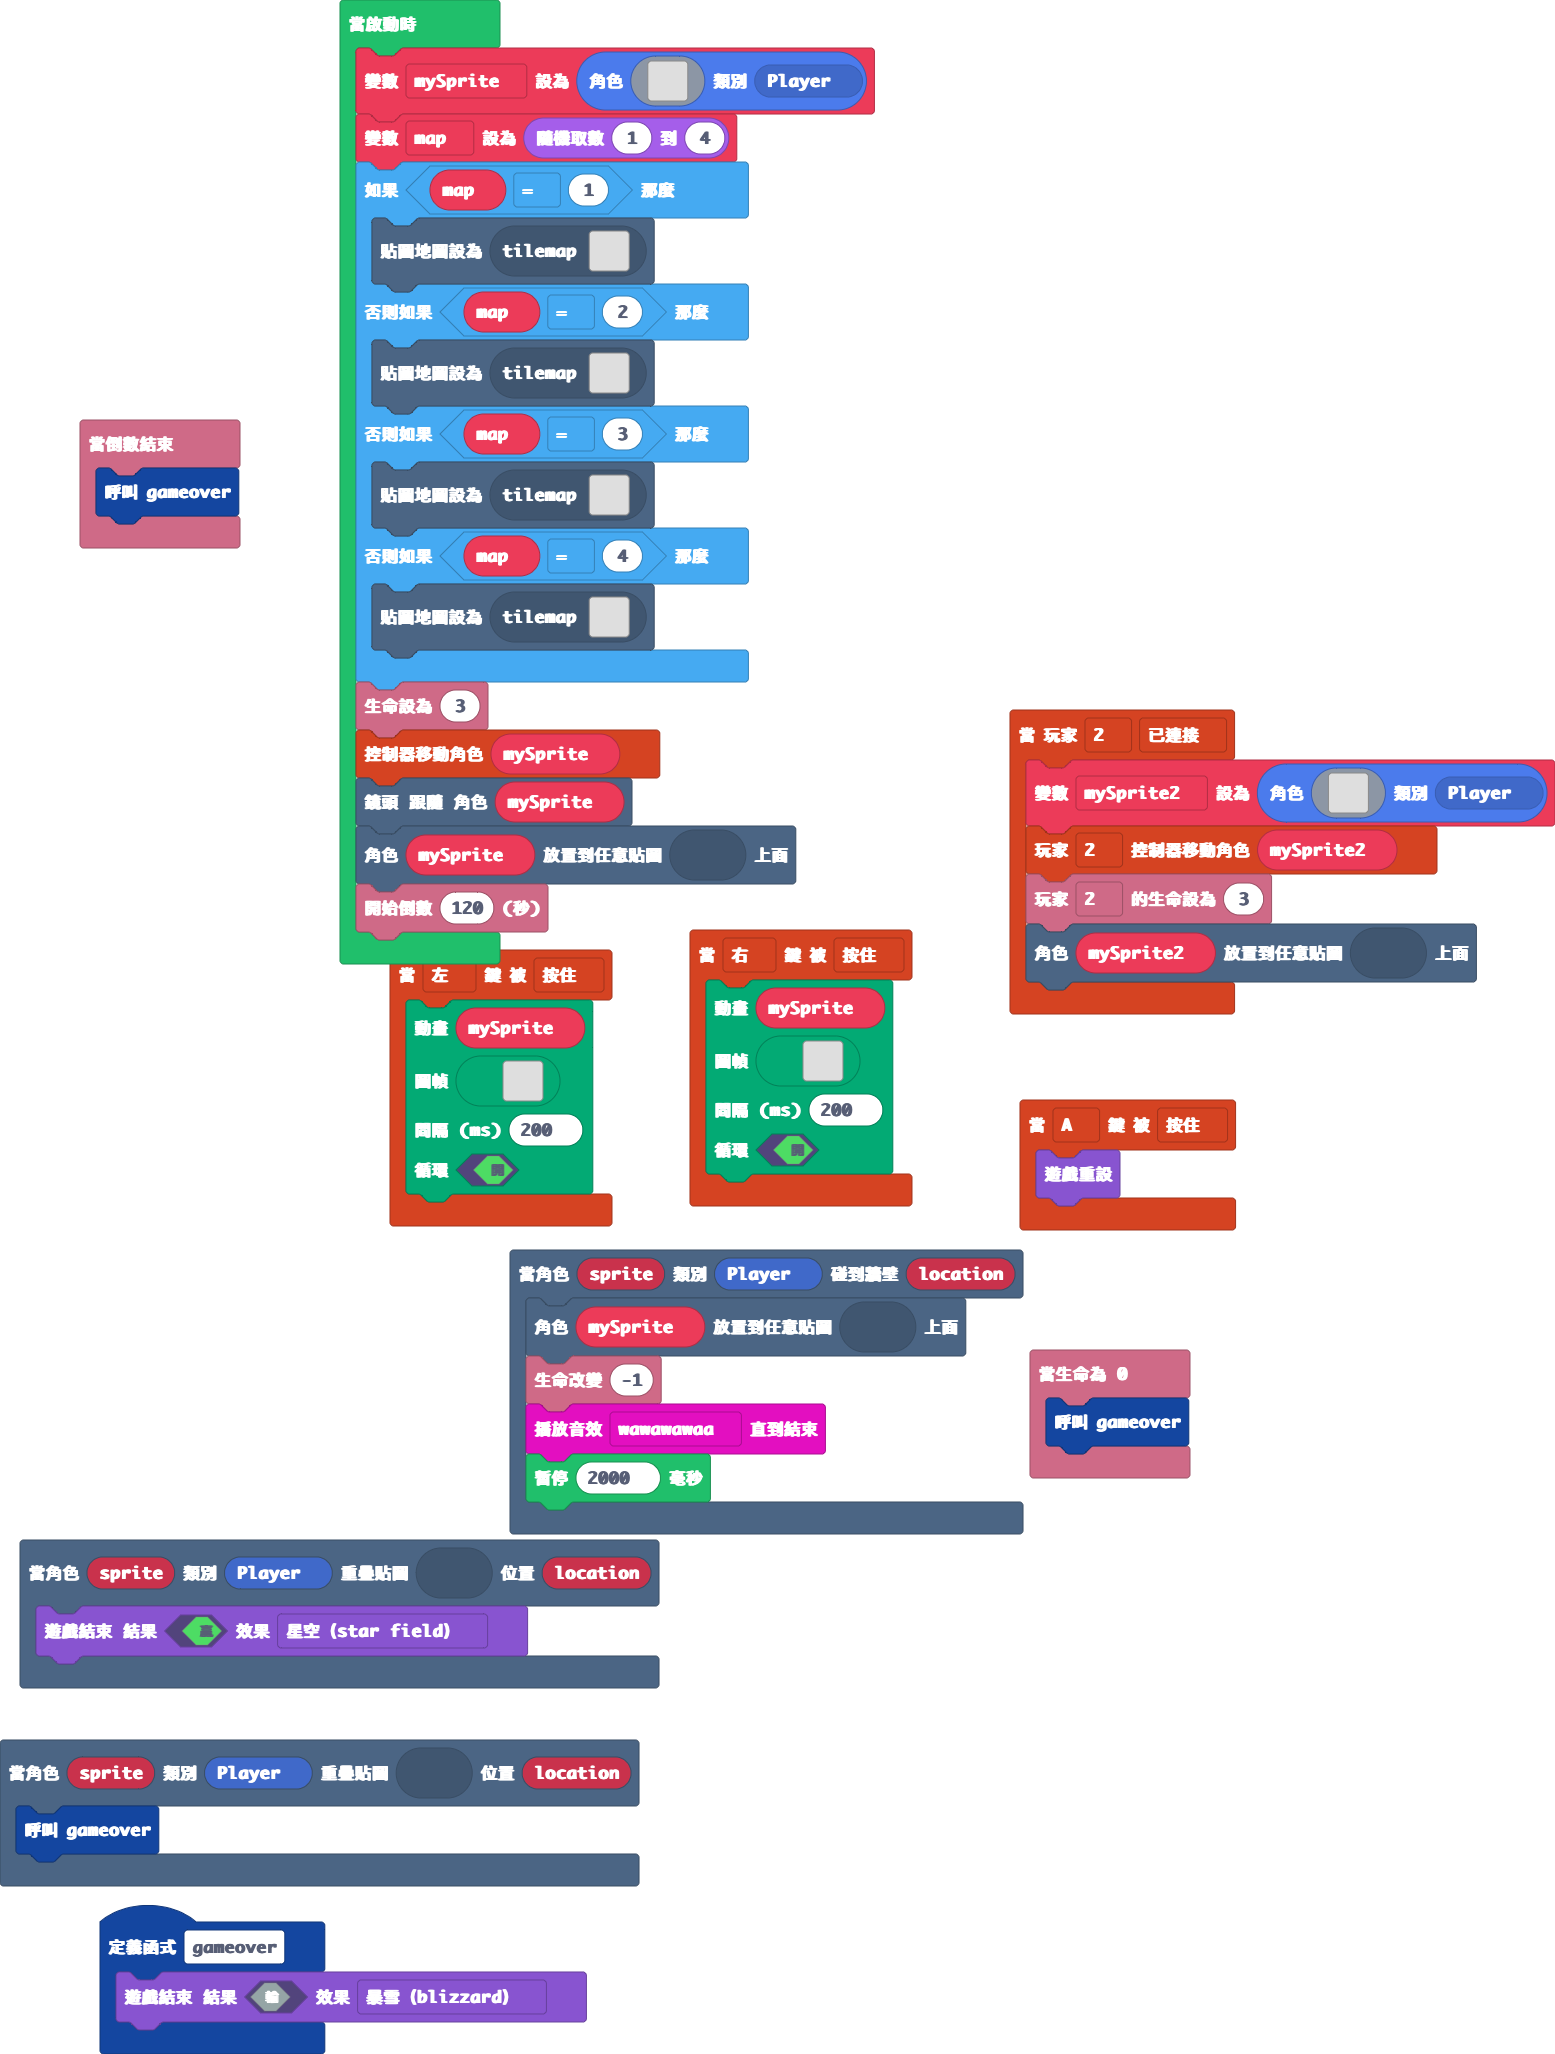
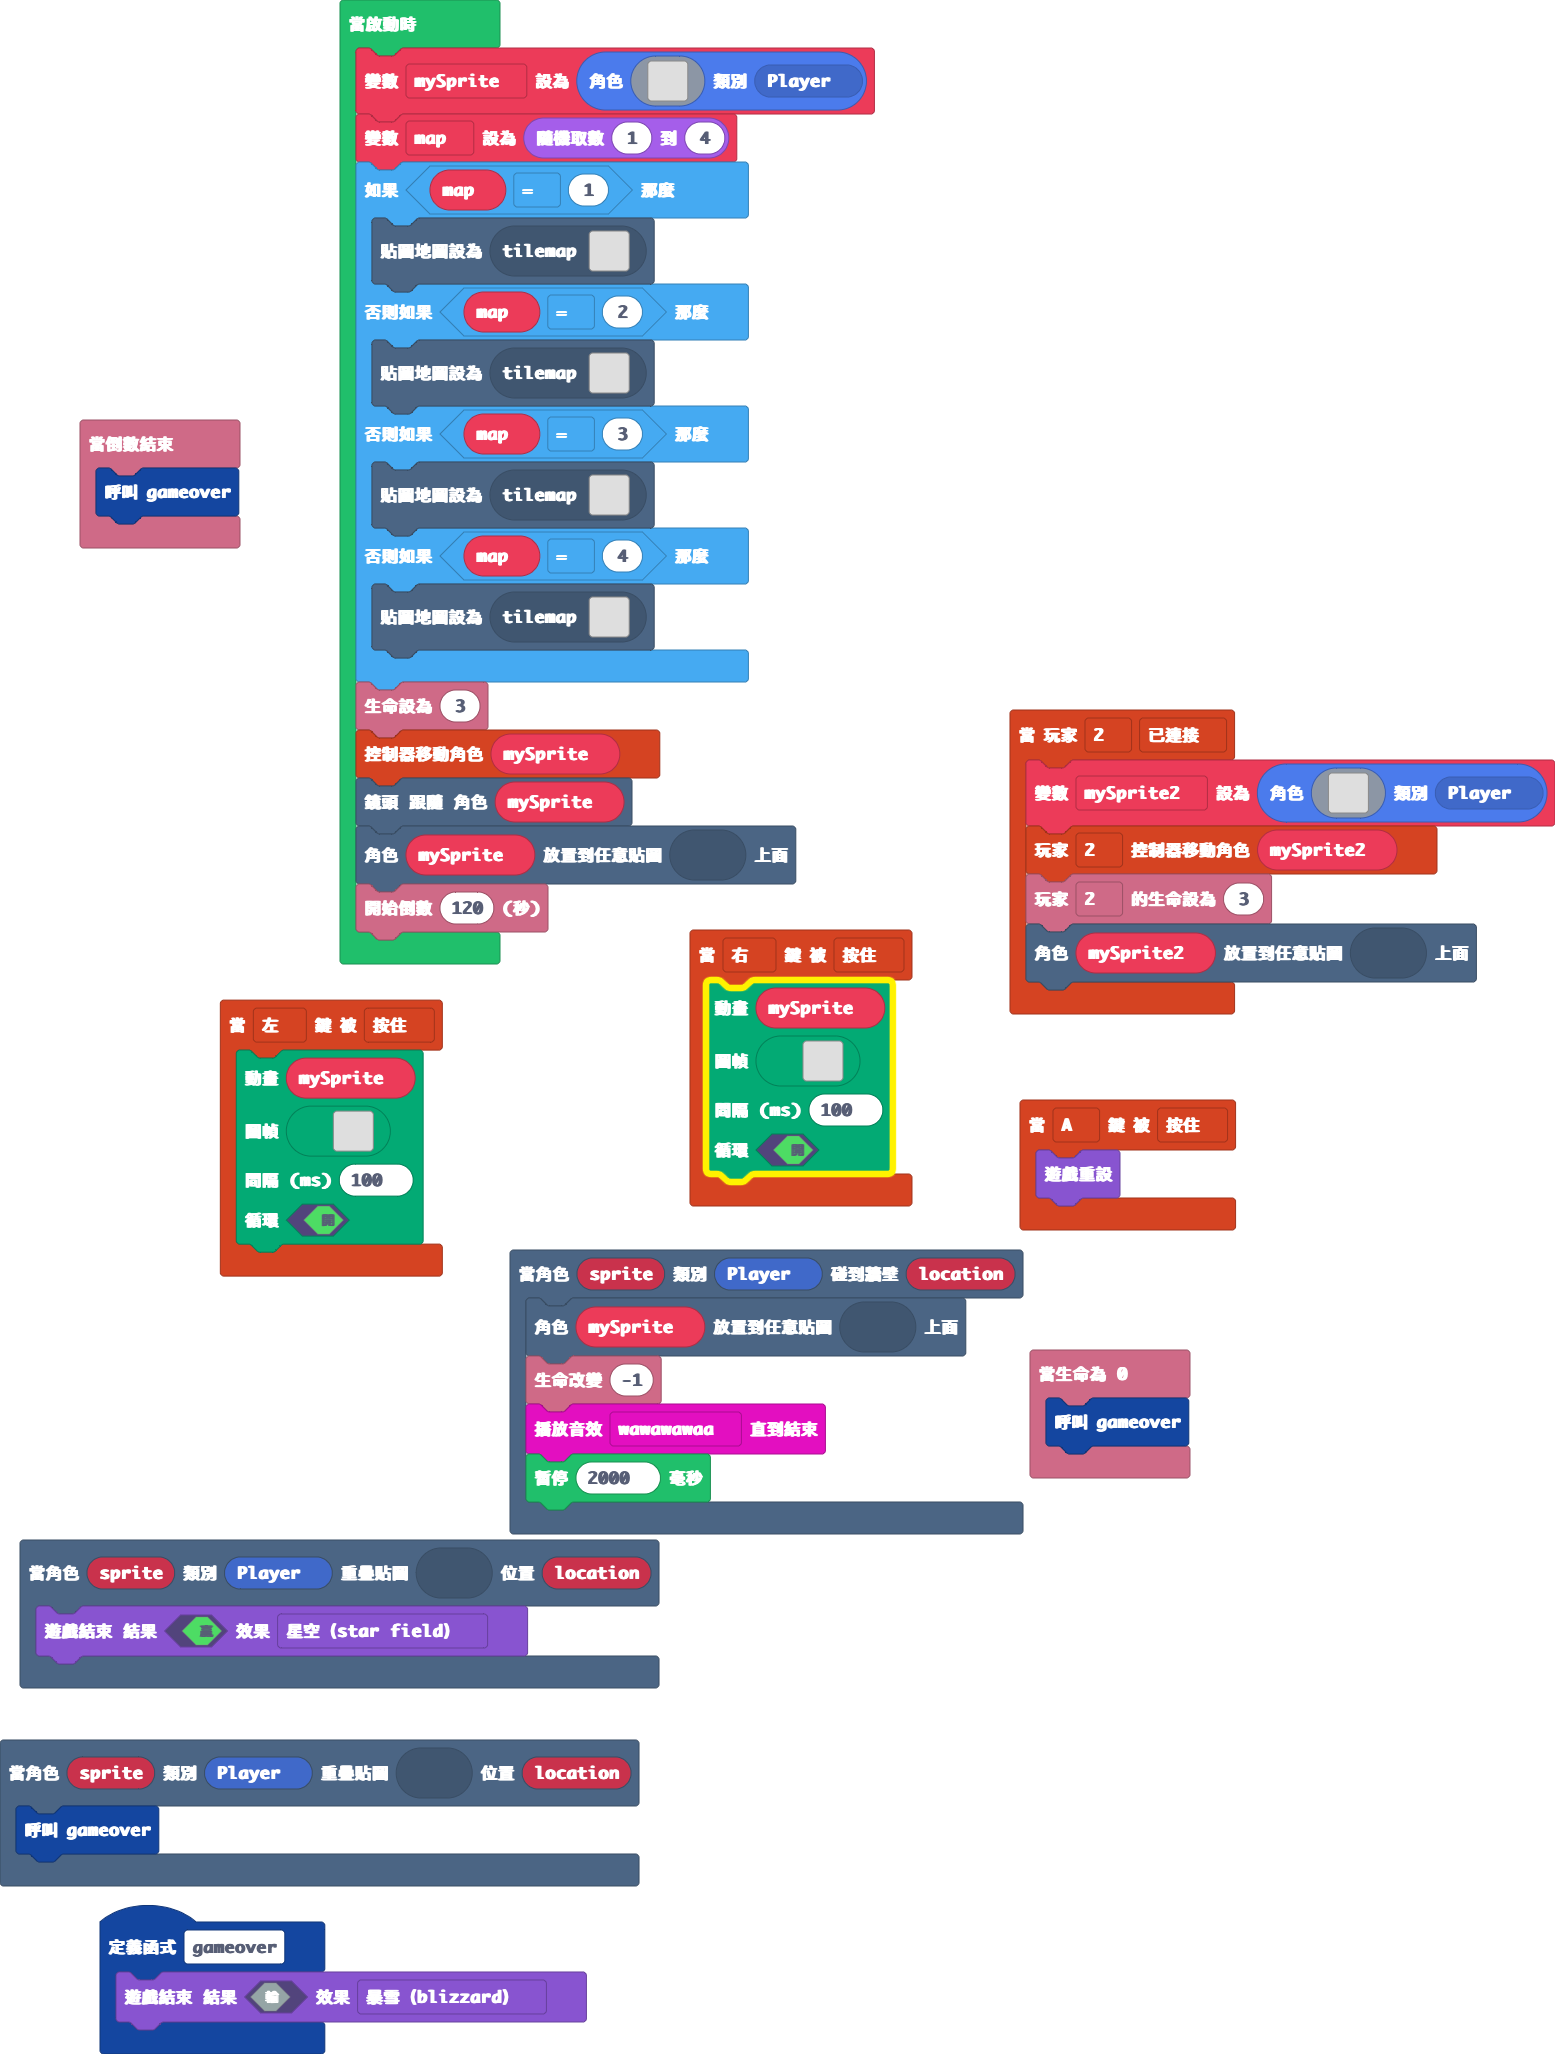
更新 main.blocks, main.ts

Changed region(s): [[0.1235, 0.4362, 0.4013, 0.6232], [0.4322, 0.4674, 0.5865, 0.592]]

diff --git a/main.ts b/main.ts
@@ -142,7 +142,7 @@ controller.left.onEvent(ControllerButtonEvent.Pressed, function () {
         . . . b b c c c c c c c c . . . 
         . . . . . . . . . . . . . . . . 
         `],
-    200,
+    100,
     true
     )
 })
@@ -255,7 +255,7 @@ controller.right.onEvent(ControllerButtonEvent.Pressed, function () {
         . . . c c c c c c c c b b . . . 
         . . . . . . . . . . . . . . . . 
         `],
-    200,
+    100,
     true
     )
 })
